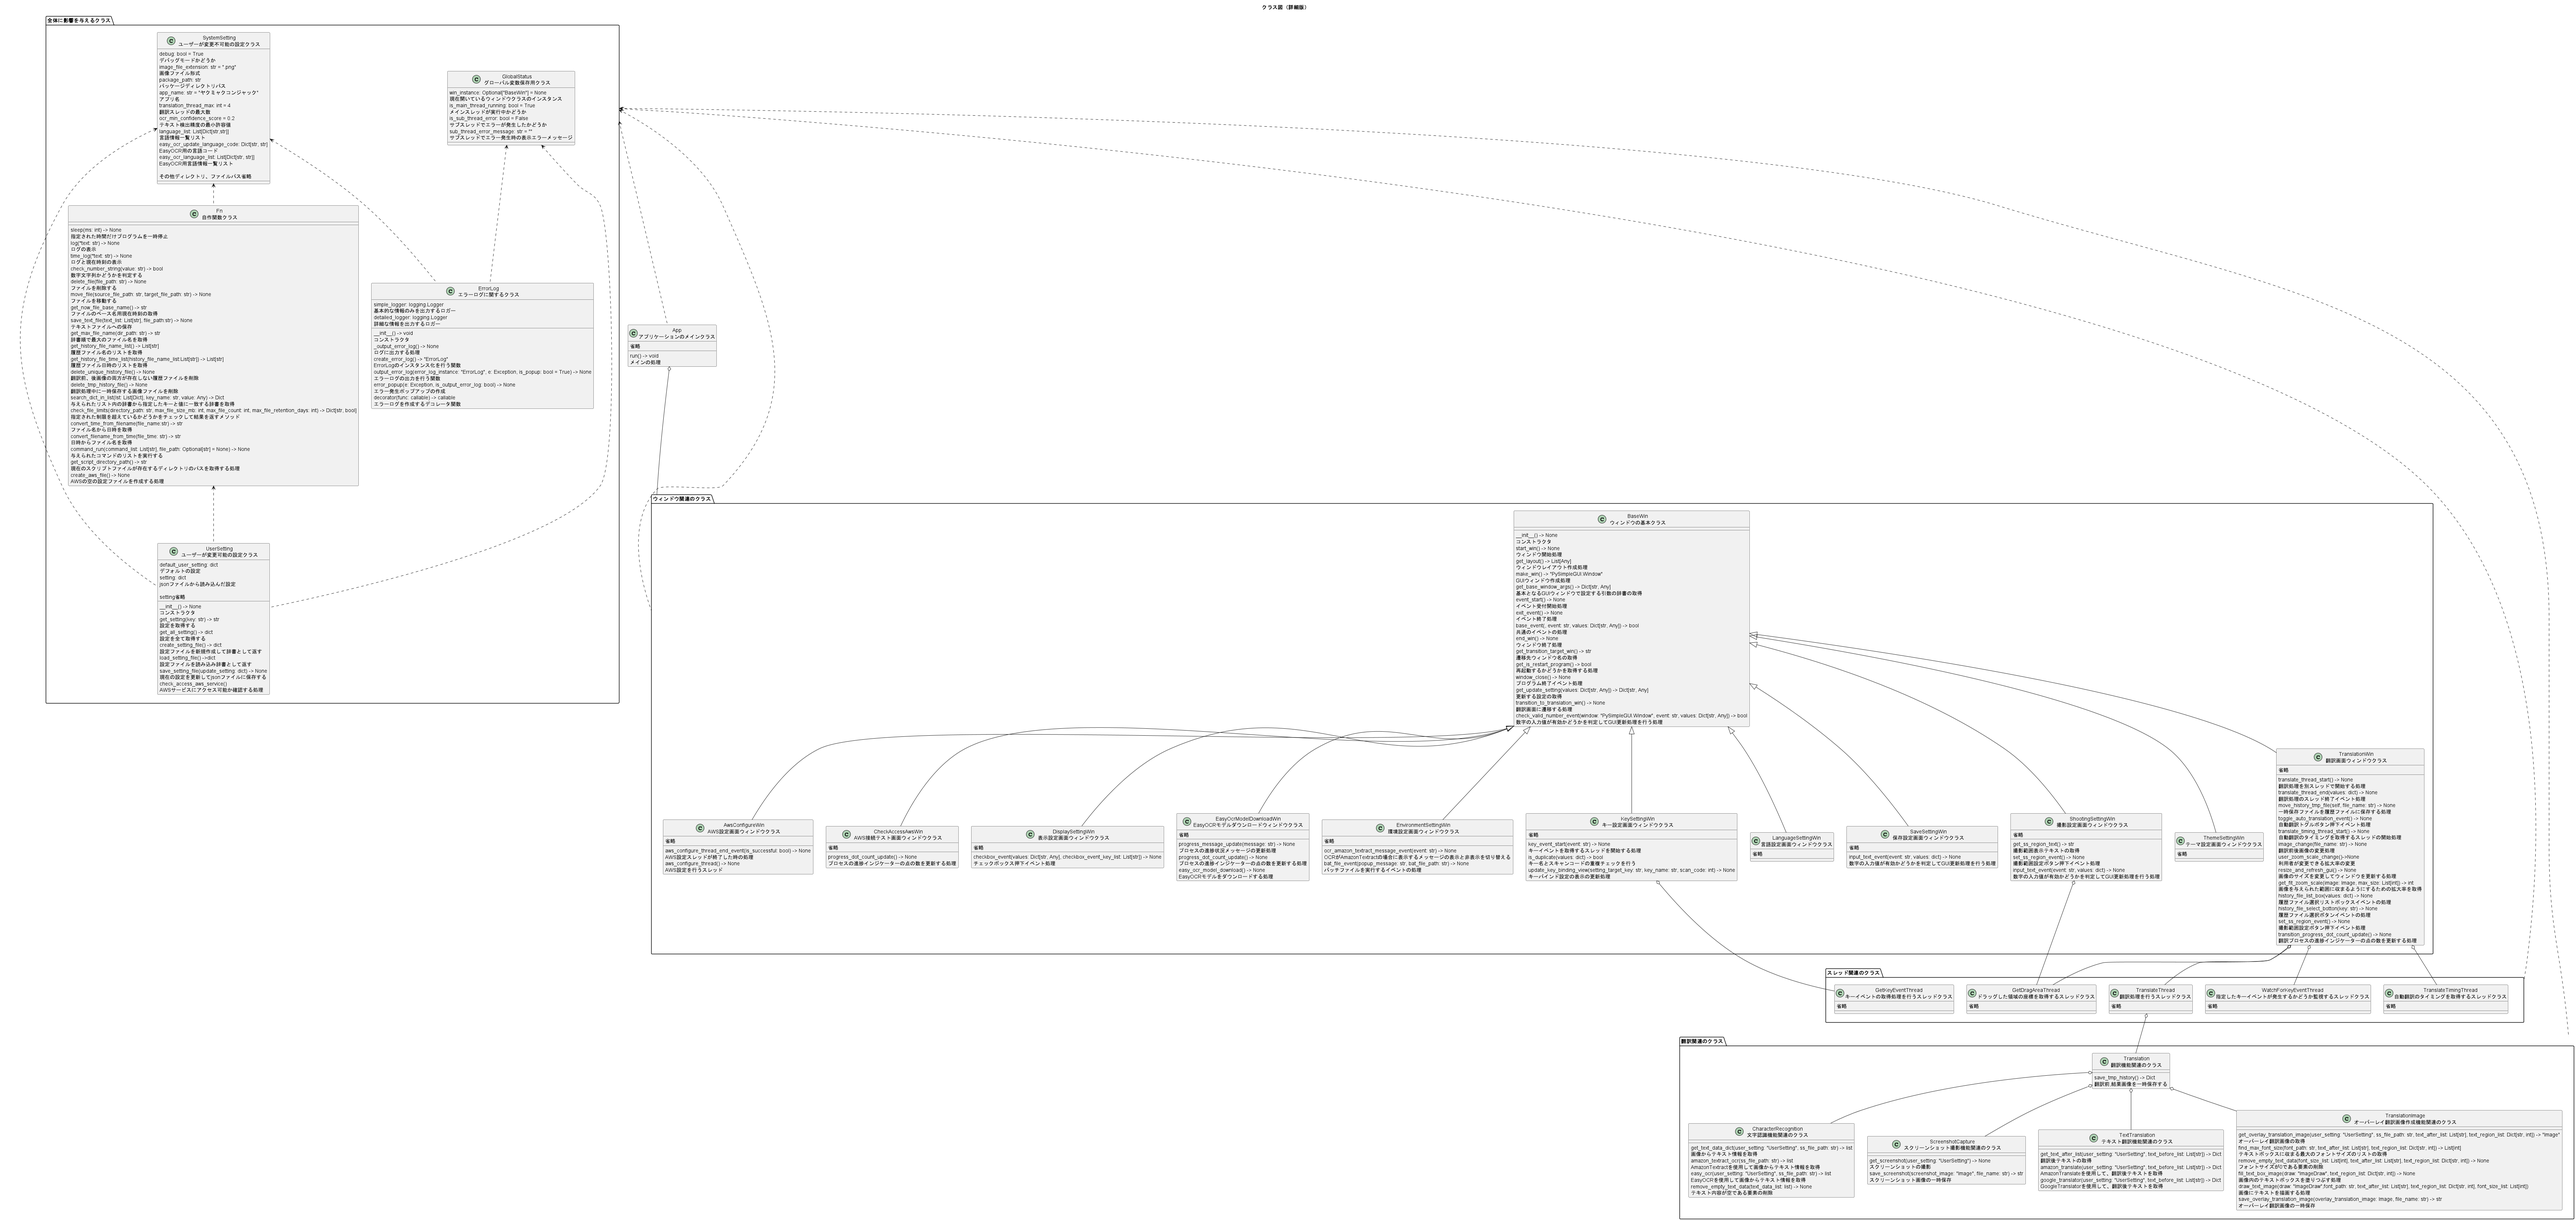
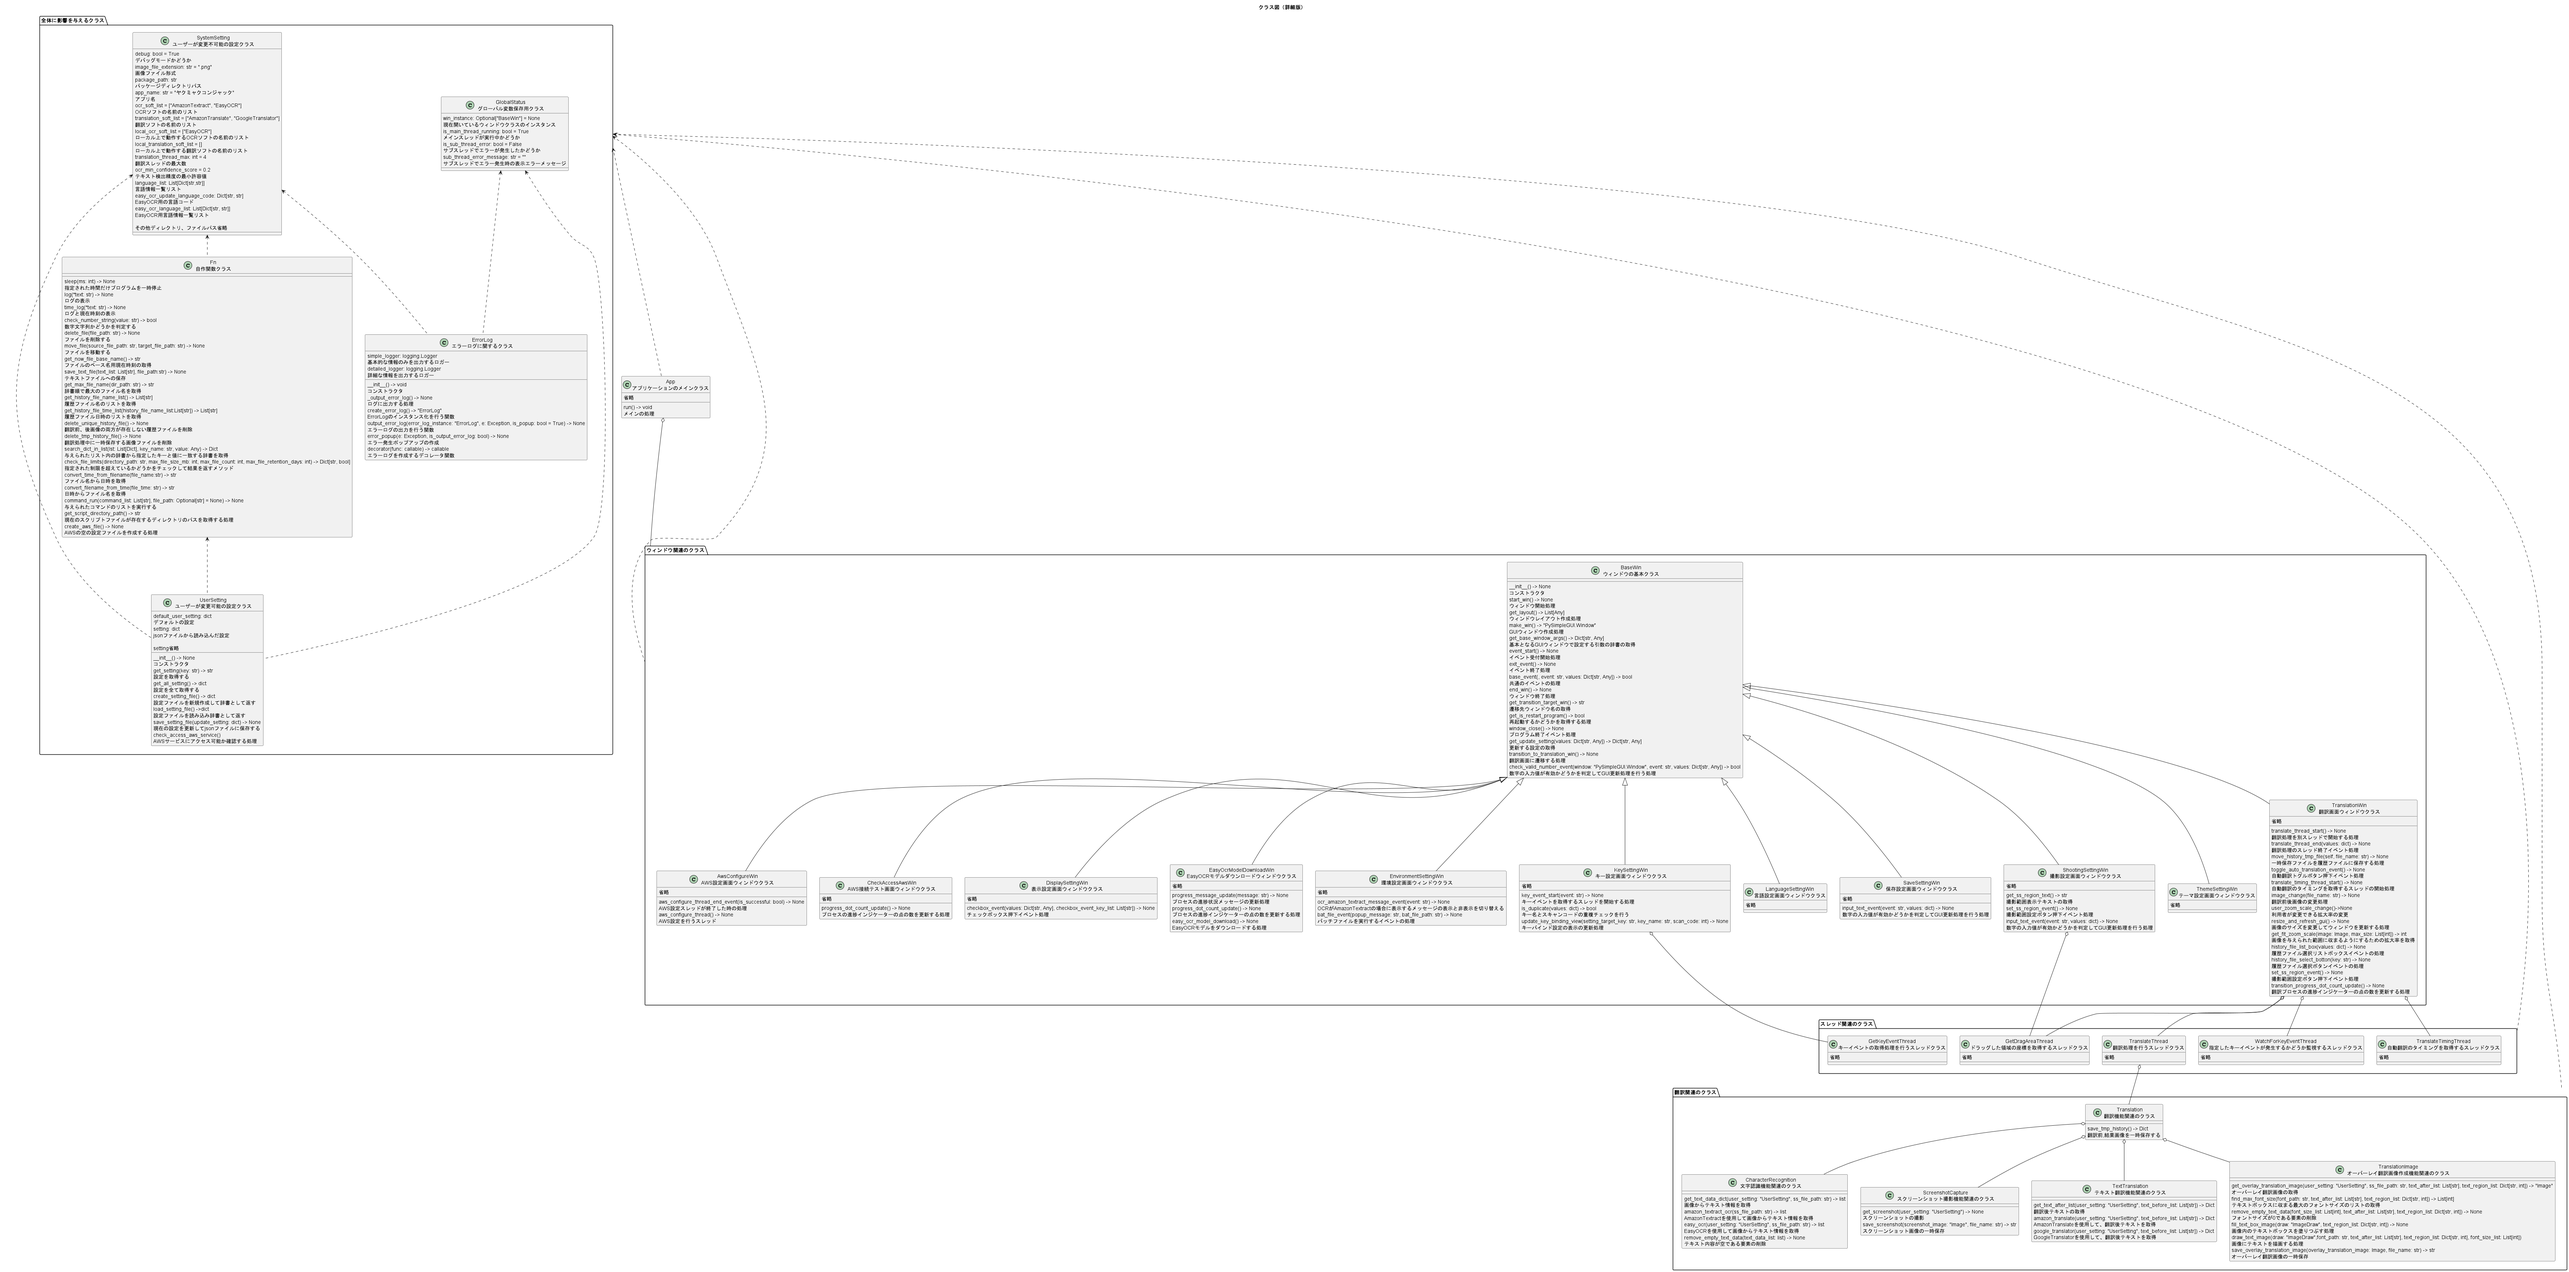
EasyOCR使用中に最大スレッド数を制限するように変更

diff --git a/src/package/translation/translation.py b/src/package/translation/translation.py
@@ -14,6 +14,7 @@ if __name__ == "__main__":
 from package.debug import Debug  # デバッグ用クラス
 from package.error_log import ErrorLog  # エラーログに関するクラス
 from package.fn import Fn  # 自作関数クラス
+from package.global_status import GlobalStatus  # グローバル変数保存用のクラス
 from package.system_setting import SystemSetting  # ユーザーが変更不可能の設定クラス
 from package.translation.character_recognition import CharacterRecognition  # 文字認識機能関連のクラス
 from package.translation.screenshot_capture import ScreenshotCapture  # スクリーンショット撮影機能関連のクラス
@@ -36,6 +37,9 @@ class Translation:
         """
         # Fn.time_log("翻訳開始")
 
+        # ウィンドウオブジェクトの取得
+        window = GlobalStatus.win_instance.window
+
         user_setting = UserSetting()  # ユーザ設定のインスタンス化
 
         # 保存ファイルのベース名(撮影日時)の取得
@@ -51,10 +55,12 @@ class Translation:
         screenshot_image = ScreenshotCapture.get_screenshot(user_setting)  # スクショ撮影
         ss_file_path = ScreenshotCapture.save_screenshot(screenshot_image, file_name)  # スクショ保存
 
+        # Fn.time_log(f"スクショ撮影 {file_name}")
+
         # ! デバック用
         # ss_file_path = Debug.ss_file_path  # スクショ画像パス
-        # ss_file_path = os.path.join(Debug.debug_directory_path, "test.png")  # スクショ画像パス
-        # スクショ画像を開く
+        # ss_file_path = os.path.join(Debug.debug_directory_path, "image_before.png")  # スクショ画像パス
+        # # スクショ画像を開く
         # with Image.open(ss_file_path) as screenshot_image:
         #     ss_file_path = ScreenshotCapture.save_screenshot(screenshot_image, file_name)  # スクショ保存
 
@@ -63,7 +69,15 @@ class Translation:
         text_data_dict = CharacterRecognition.get_text_data_dict(user_setting, ss_file_path)
         text_before_list = text_data_dict["text_list"]  # 翻訳前テキストリストの取得
         text_region_list = text_data_dict["text_region_list"]  # テキスト範囲のリストの取得
-        # Fn.time_log("文字取得")
+        # Fn.time_log(f"文字取得 {file_name}")
+
+        # 翻訳ウィンドウが閉じられているなら
+        if window.was_closed():
+            return {
+                "file_name": file_name,  # 保存ファイル名(撮影日時)
+                "is_error": False,  # エラーが発生したかどうか
+                "exception": None,  # エラークラス
+            }
 
         # ! デバック用
         # test_int = random.randint(100, 1000 * 5)
@@ -88,7 +102,7 @@ class Translation:
                 "exception": text_translation_result["exception"],  # エラークラス
             }
 
-        # Fn.time_log("翻訳")
+        # Fn.time_log(f"翻訳 {file_name}")
 
         # ! デバック用
         # test_int = random.randint(100, 1000 * 5)
@@ -107,7 +121,7 @@ class Translation:
             overlay_translation_image, file_name
         )
 
-        # Fn.time_log("画像作成")
+        # Fn.time_log(f"画像作成 {file_name}")
 
         # ! デバッグ用
         # overlay_translation_image.show()  # 画像表示

diff --git a/src/package/window/translation_win.py b/src/package/window/translation_win.py
@@ -50,8 +50,24 @@ class TranslationWin(BaseWin):
 
         # 現在の翻訳スレッド数
         self.thread_count = 0
-        # 翻訳スレッド数の最大数
-        self.thread_max = SystemSetting.translation_thread_max
+
+        # 現在のOCRソフトの取得
+        now_ocr_soft = self.user_setting.get_setting("ocr_soft")
+        # 現在の翻訳ソフトの取得
+        now_translation_soft = self.user_setting.get_setting("translation_soft")
+
+        # 現在のOCRソフトと翻訳ソフトが両方リモートで動作するなら
+        if (
+            now_ocr_soft not in SystemSetting.local_ocr_soft_list # 現在のOCRソフトがリモートで動作するなら
+            and now_translation_soft not in SystemSetting.local_translation_soft_list # 現在の翻訳ソフトがリモートで動作するなら
+        ):
+            # 翻訳スレッド数の最大数((リモートの場合のみ))
+            self.translation_thread_max = SystemSetting.translation_thread_max
+
+        # 現在のOCRソフトと翻訳ソフトのうちどちらかがリモートで動作しないなら
+        else:
+            # 翻訳スレッド数の最大数
+            self.translation_thread_max = 1
 
         # 自動翻訳のタイミングを取得するスレッド
         self.translate_timing_thread = None
@@ -514,7 +530,7 @@ class TranslationWin(BaseWin):
         if self.last_translation_time is None or current_time - self.last_translation_time >= 1:
 
             # 翻訳スレッド最大数を超えていないなら
-            if self.thread_count < self.thread_max:
+            if self.thread_count < self.translation_thread_max:
                 # 最後に翻訳処理した時間を更新
                 self.last_translation_time = current_time
                 # 翻訳スレッド数更新
@@ -543,7 +559,9 @@ class TranslationWin(BaseWin):
 
             # 翻訳スレッド最大数を超えているなら
             else:
-                Fn.time_log("スレッド数オーバー")
+                # 翻訳スレッド数の最大数が1より多いなら
+                if self.translation_thread_max > 1:
+                    Fn.time_log("翻訳処理スレッド数オーバー")
                 self.is_thread_over = True  # スレッド数がオーバーするかどうか
 
         # 最後に翻訳処理を行った時間から、1秒以上経過していないなら

diff --git a/src/package/thread/translate_thread.py b/src/package/thread/translate_thread.py
@@ -1,4 +1,5 @@
 import os  # ディレクトリ関連
+import time
 
 from package.error_log import ErrorLog  # エラーログに関するクラス
 from package.fn import Fn  # 自作関数クラス
@@ -14,21 +15,25 @@ class TranslateThread:
     @ErrorLog.decorator  # エラーログを取得するデコレータ
     def run():
         """翻訳処理"""
-
         # ウィンドウオブジェクトの取得
         window = GlobalStatus.win_instance.window
 
-        Fn.time_log("翻訳開始")
+        Fn.time_log("翻訳開始    現在時刻:")
+
+        start_time = time.time()  # 現在時刻（処理開始前）を取得
 
         # 翻訳前, 結果画像を一時保存する
         save_history_result = Translation.save_tmp_history()
+
+        end_time = time.time()  # 現在時刻（処理完了後）を取得
+        time_diff = end_time - start_time  # 処理完了後の時刻から処理開始前の時刻を減算する
 
         # 保存ファイル名の取得
         file_name = save_history_result["file_name"]
 
         # 保存処理でエラーが発生していないかつ、ウィンドウが開いているなら
         if not save_history_result["is_error"] and not (window.was_closed()):
-            Fn.time_log("翻訳終了")
+            Fn.time_log(f"翻訳終了    ファイル名: {file_name}    翻訳時間: {time_diff}    現在時刻:")
             key = "-translate_thread_end-"
             value = file_name
             # スレッドから、翻訳イベントを送信

diff --git a/src/package/system_setting.py b/src/package/system_setting.py
@@ -99,7 +99,19 @@ class SystemSetting:
     # アプリケーションの名前
     app_name: str = "ヤクミャクコンジャック"
 
-    # 翻訳スレッドの最大数
+    # OCRソフトの名前のリスト
+    ocr_soft_list = ["AmazonTextract", "EasyOCR"]
+
+    # 翻訳ソフトの名前のリスト
+    translation_soft_list = ["AmazonTranslate", "GoogleTranslator"]
+
+    # ローカル上で動作するOCRソフトの名前のリスト
+    local_ocr_soft_list = ["EasyOCR"]
+
+    # ローカル上で動作する翻訳ソフトの名前のリスト
+    local_translation_soft_list = []
+
+    # 翻訳スレッドの最大数(リモートの場合のみ)
     translation_thread_max: int = 4
 
     # テキスト検出精度の最小許容値

diff --git a/src/package/window/environment_setting_win.py b/src/package/window/environment_setting_win.py
@@ -25,10 +25,10 @@ class EnvironmentSettingWin(BaseWin):
     """
 
     # OCRソフトの名前のリスト
-    ocr_soft_list = ["AmazonTextract", "EasyOCR"]
+    ocr_soft_list = SystemSetting.ocr_soft_list
 
     # 翻訳ソフトの名前のリスト
-    translation_soft_list = ["AmazonTranslate", "GoogleTranslator"]
+    translation_soft_list = SystemSetting.translation_soft_list
 
     def __init__(self):
         """コンストラクタ 初期設定"""

diff --git a/README.md b/README.md
@@ -9,12 +9,11 @@
 ## 要件
 - OS: Windows
 - Python: 3.8以上
-- Git
 - 必要なディスク容量: 約2GB
 
 ## インストール方法
 1. 下記のリンクから`installer.bat`をダウンロードしてください。<br>
-[インストーラーのダウンロード(v2.6.0)](https://github.com/k4r44g3/YakunyakuKonjac/releases/download/v2.6.0/v2.6.0_installer.bat)
+[インストーラーのダウンロード(v2.6.1)](https://github.com/k4r44g3/YakunyakuKonjac/releases/download/v2.6.1/v2.6.1_installer.bat)
 2. ダウンロード後、`installer.bat`を実行してインストールを開始してください。
 
 ### 注意事項
